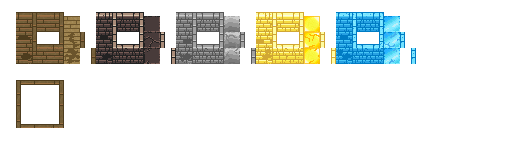
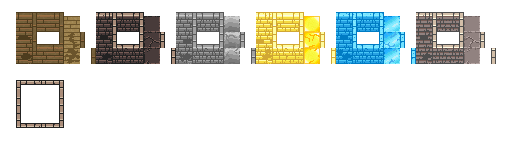
+ New neutral color for tutorial root room

Changed region(s): [[0.8125, 0.0833, 0.9688, 0.4444], [0.0312, 0.5556, 0.125, 0.8889]]

diff --git a/src/scenes/Tutorial.ts b/src/scenes/Tutorial.ts
@@ -10,6 +10,8 @@ import Game from "./Game";
 
 export default class Tutorial extends Game{
 
+    private textColor = "#000000"
+
     private issueExample = {
         "severity": "MINOR",
         "component": "abc-map_abc-map:packages/server/src/utils/Validation.ts",
@@ -118,6 +120,7 @@ export default class Tutorial extends Game{
         if(this.mapContext.path.length === 1 && this.mapContext.selected === "root"){
             this.generationRoot()
         } else {
+            this.setGroundTexture()
             this.generation()
         }
 
@@ -135,7 +138,7 @@ export default class Tutorial extends Game{
         let center = Game.TILE_SIZE * this.dungeon_size / 2
         cam.centerOn(center, center)
         cam.zoom = 2
-        cam.setBackgroundColor(0x202121)
+        cam.setBackgroundColor(0x070707)
 
 
         // Character
@@ -359,6 +362,8 @@ export default class Tutorial extends Game{
     }
 
     generationRoot() {
+        this.wallTexture = 5
+        this.groundTexture = 5
         // This function is called only in the root room then we can
         // make the assumption that we're in it. Thus we will place 
         // files manually, not with the automatic way
@@ -422,7 +427,7 @@ export default class Tutorial extends Game{
 
         this.add.text(6 * Game.TILE_SIZE + Game.NB_TILE_PER_FILE*Game.TILE_SIZE/2, 
             4.5 * Game.TILE_SIZE + Game.NB_TILE_PER_FILE*Game.TILE_SIZE/2, 
-            "Come here\nand press").setScale(0.5).setOrigin(0.5, 0.5)
+            "Come here\nand press").setScale(0.5).setOrigin(0.5, 0.5).setColor(this.textColor)
 
 
         this.addKey(
@@ -439,7 +444,7 @@ export default class Tutorial extends Game{
             
         this.add.text((this.dungeon_size - 6 - 3) * Game.TILE_SIZE + Game.NB_TILE_PER_FILE*Game.TILE_SIZE/2, 
             5 * Game.TILE_SIZE + Game.NB_TILE_PER_FILE*Game.TILE_SIZE/2, 
-            "Click me").setScale(0.5).setOrigin(0.5, 0.5)
+            "Click me").setScale(0.5).setOrigin(0.5, 0.5).setColor(this.textColor)
 
         // Generate exit tile in the center
         let exitFile = {
@@ -542,8 +547,6 @@ export default class Tutorial extends Game{
 
         
         // Add walls layer
-        const security_rating = this.sonarQubeData.measures.find(measure => measure.metric === 'security_rating').value
-        this.wallTexture = 5 - Math.floor(security_rating)
 
         let walls = this.createWalls(Game.TILE_SIZE, this.dungeon_size)
         this.wall1Layer = walls[0]
@@ -558,7 +561,7 @@ export default class Tutorial extends Game{
             this.wall2Layer.putTileAt(ConstantsTiles.WALL_FACE + Math.floor(i / Math.floor(totalNbTextureExample / 5)) * ConstantsTiles.tileDistance, wallExampleX+i, wallExampleY).setCollision(true)
             this.wall1Layer.putTileAt(ConstantsTiles.WALL_TIP + Math.floor(i / Math.floor(totalNbTextureExample / 5)) * ConstantsTiles.tileDistance, wallExampleX+i, wallExampleY-1)
         }
-        this.add.text(this.dungeon_size * Game.TILE_SIZE / 2, Game.TILE_SIZE * 0.4, "Walls represent the security").setScale(0.5).setOrigin(0.5, 0.5)
+        this.add.text(this.dungeon_size * Game.TILE_SIZE / 2, Game.TILE_SIZE * 0.4, "Walls represent the security").setScale(0.5).setOrigin(0.5, 0.5).setColor(this.textColor)
 
         // add ground texture examples
         let groundExampleX = wallExampleX
@@ -568,11 +571,11 @@ export default class Tutorial extends Game{
                 this.groundLayer.putTileAt(ConstantsTiles.GROUND_CLEAN + Math.floor(i / Math.floor(totalNbTextureExample / 5)) * ConstantsTiles.tileDistance, groundExampleX + i, groundExampleY + j)
             }
         }
-        this.add.text(this.dungeon_size * Game.TILE_SIZE / 2, Game.TILE_SIZE * 4.3, "Ground tiles represent the reliability").setScale(0.5).setOrigin(0.5, 0.5)
+        this.add.text(this.dungeon_size * Game.TILE_SIZE / 2, Game.TILE_SIZE * 4.3, "Ground tiles represent the reliability").setScale(0.5).setOrigin(0.5, 0.5).setColor(this.textColor)
 
     }
 
-    addKey(x: number, y: number, keyName: string, caption?:string, large:boolean = false, captionColor:string = "#FFFFFF"){
+    addKey(x: number, y: number, keyName: string, caption?:string, large:boolean = false, captionColor:string = this.textColor){
         let keyId = "key"
 
         if(large){
@@ -580,7 +583,7 @@ export default class Tutorial extends Game{
         }
 
         this.add.image(x, y, keyId).setAlpha(0.7).setOrigin(0.5, 0.5)
-        this.add.text(x, y, keyName).setOrigin(0.5, 0.5).setScale(0.5).setColor("#000000")
+        this.add.text(x, y - 0.5, keyName).setOrigin(0.5, 0.5).setScale(0.5).setColor(this.textColor)
         if(caption){
             this.add.text(
                 x, y - 0.8 * Game.TILE_SIZE, 

diff --git a/src/scenes/Game.ts b/src/scenes/Game.ts
@@ -24,6 +24,9 @@ export default class Game extends Phaser.Scene{
 
     private oldFileNameShowed
 
+    protected reliability_rating
+    protected sqale_rating
+
     private cursors!: Phaser.Types.Input.Keyboard.CursorKeys
 
     protected player!: Player
@@ -231,6 +234,7 @@ export default class Game extends Phaser.Scene{
         this.fileTree = Global.fileTree
         console.log('game scene started')
         Log.addInformation(LogConstant.START_ROOM, this.mapContext)
+        sceneEvents.removeAllListeners('player-dead')
         sceneEvents.on('player-dead', () => {
             Log.addInformation(LogConstant.DIE, this.mapContext)
             this.scene.restart()
@@ -262,7 +266,6 @@ export default class Game extends Phaser.Scene{
                 selectedId:-1
             }
         }
-        console.log(this.sonarQubeData)
         this.generation()
 
 
@@ -279,7 +282,7 @@ export default class Game extends Phaser.Scene{
         let center = Game.TILE_SIZE * this.dungeon_size / 2
         cam.centerOn(center, center)
         cam.zoom = 2
-        cam.setBackgroundColor(0x202121)
+        cam.setBackgroundColor(0x070707)
 
 
         // Character
@@ -439,6 +442,7 @@ export default class Game extends Phaser.Scene{
         }
 
 
+        this.setGroundTexture()
         this.generateGround()
 
         // Add File delimitation layer
@@ -511,17 +515,17 @@ export default class Game extends Phaser.Scene{
             t.push(Array.from(l))
         }
 
-        t[0].fill(ConstantsTiles.WALL_TIP_INNER)
-        t[0][0] = ConstantsTiles.WALL_TOP_LEFT_INNER_CORNER
-        t[0][size-1] = ConstantsTiles.WALL_TOP_RIGHT_INNER_CORNER
+        t[0].fill(ConstantsTiles.FILE_LIMIT_TOP)
+        t[0][0] = ConstantsTiles.FILE_LIMIT_TOP_LEFT
+        t[0][size-1] = ConstantsTiles.FILE_LIMIT_TOP_RIGHT
 
-        t[size-1].fill(ConstantsTiles.WALL_TIP)
-        t[size-1][size-1] = ConstantsTiles.WALL_BOTTOM_RIGHT_CORNER_TIP
-        t[size-1][0] = ConstantsTiles.WALL_BOTTOM_LEFT_CORNER_TIP
+        t[size-1].fill(ConstantsTiles.FILE_LIMIT_BOTTOM)
+        t[size-1][size-1] = ConstantsTiles.FILE_LIMIT_BOTTOM_RIGHT
+        t[size-1][0] = ConstantsTiles.FILE_LIMIT_BOTTOM_LEFT
 
         for(let i=1; i < size-1; i++){
-            t[i][0] = ConstantsTiles.WALL_LEFT
-            t[i][size-1] = ConstantsTiles.WALL_RIGHT
+            t[i][0] = ConstantsTiles.FILE_LIMIT_LEFT
+            t[i][size-1] = ConstantsTiles.FILE_LIMIT_RIGHT
         }
  
         this.fileLayer.putTilesAt(t, x, y).alpha = 0.5
@@ -682,9 +686,7 @@ export default class Game extends Phaser.Scene{
         return this.enemies
     }
 
-    
-
-    generateGround(){
+    setGroundTexture(){
         // Add ground layer
         /**
          * 3 type of ground =  CLEAN/SLIGHTLY_CRACKED/CRACK
@@ -697,12 +699,15 @@ export default class Game extends Phaser.Scene{
          * General is always clean
          */
 
-         const reliability_rating = this.sonarQubeData.measures.find(measure => measure.metric === 'reliability_rating').value
-         const sqale_rating = this.sonarQubeData.measures.find(measure => measure.metric === 'sqale_rating').value
-         this.groundTexture = 5 - Math.floor(reliability_rating)
+         this.reliability_rating = this.sonarQubeData.measures.find(measure => measure.metric === 'reliability_rating').value
+         this.sqale_rating = this.sonarQubeData.measures.find(measure => measure.metric === 'sqale_rating').value
+         this.groundTexture = 5 - Math.floor(this.reliability_rating)
+    }
+
+    generateGround(){
  
  
-         const probaCracked = -0.2 + sqale_rating*0.2
+         const probaCracked = -0.2 + this.sqale_rating*0.2
          const probaSlightlyCracked = 0.2
          const probaClean = 1 - probaCracked - probaSlightlyCracked
          

diff --git a/src/utils/Const.ts b/src/utils/Const.ts
@@ -19,6 +19,17 @@ export abstract class ConstantsTiles {
     static readonly GROUND_CLEAN:number = 36
     static readonly GROUND_CRACK:number = 68
     static readonly GROUND_SLIGHTLY_CRACKED:number = 100
+
+    static readonly FILE_LIMIT_TOP:number = 162
+    static readonly FILE_LIMIT_TOP_LEFT:number = 161
+    static readonly FILE_LIMIT_TOP_RIGHT:number = 163
+
+    static readonly FILE_LIMIT_LEFT:number = 193
+    static readonly FILE_LIMIT_RIGHT:number = 195
+
+    static readonly FILE_LIMIT_BOTTOM:number = 226
+    static readonly FILE_LIMIT_BOTTOM_LEFT:number = 225
+    static readonly FILE_LIMIT_BOTTOM_RIGHT:number = 227
 }
 
 export abstract class MonsterConstantsSize{
